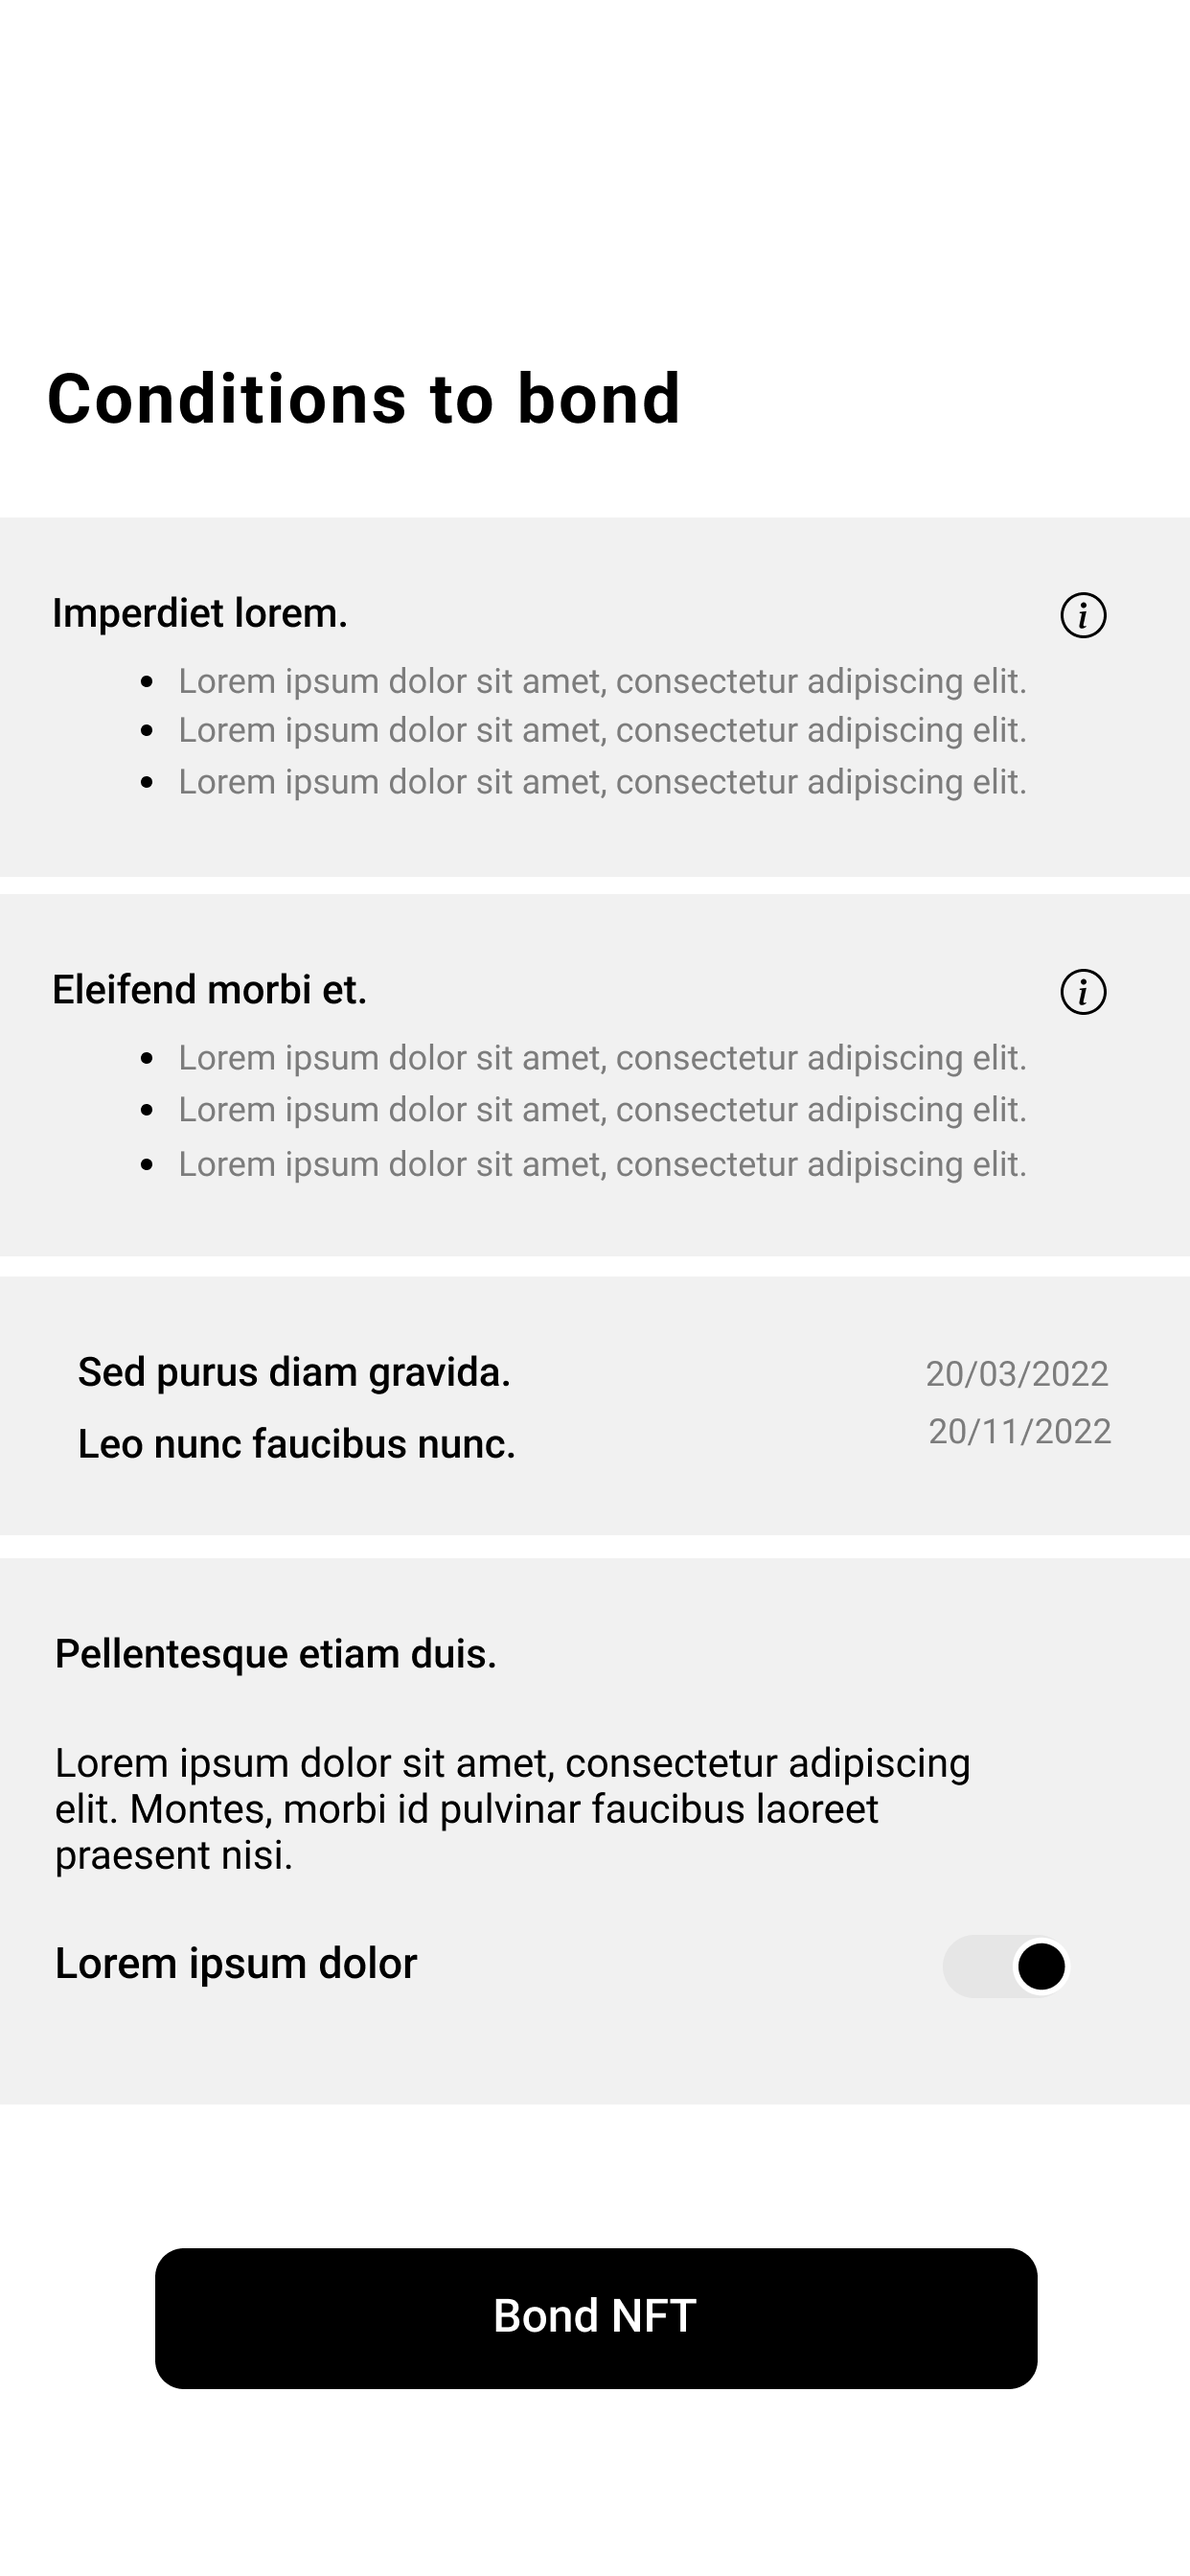
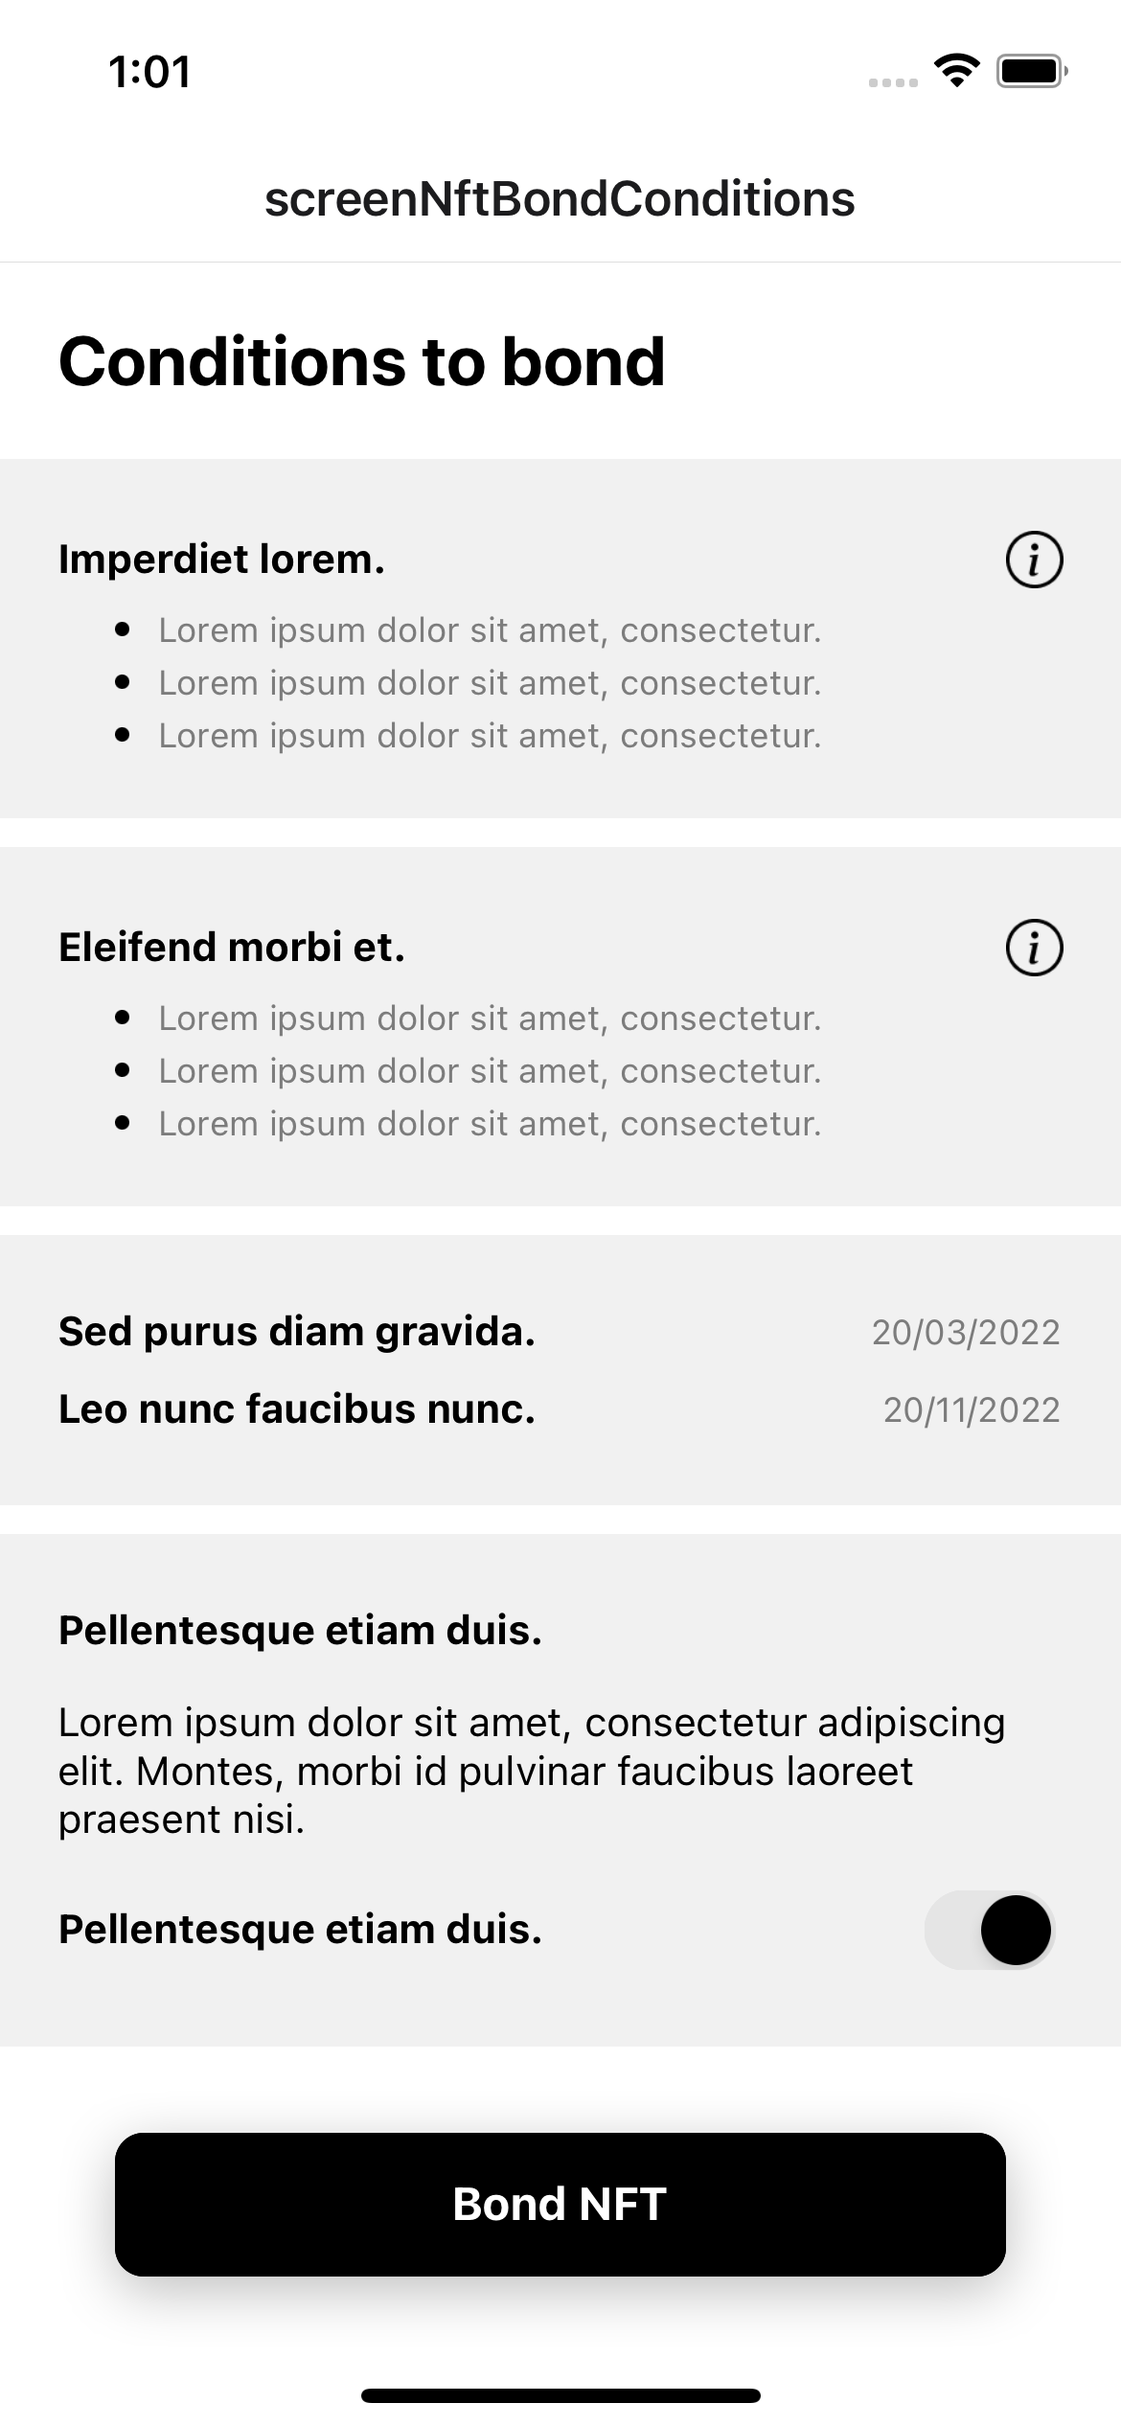
nft bond conditions screen added

diff --git a/screens/screen-nft-bond-conditions/index.js b/screens/screen-nft-bond-conditions/index.js
@@ -1,14 +1,93 @@
-import React from "react";
+import React, { useState } from "react";
 import {
   Text,
   View,
-  StyleSheet
+  StyleSheet,
+  Image,
+  Switch,
+  ScrollView,
+  Pressable
 } from "react-native";
 
 const NFTBondConditions = () => {
+  const [isEnabled, setIsEnabled] = useState(false);
   return (
     <View style={styles.container}>
-      <Text style={styles.heading}>NFT Bond Conditions</Text>
+      <ScrollView>
+        <Text style={styles.heading}>Conditions to bond</Text>
+        <View style={styles.itemContainer}>
+          <View style={styles.flexRow}>
+            <Text style={styles.itemHeading}>Imperdiet lorem.</Text>
+            <Image
+              source={require("./assets/infoIcon.png")}
+              style={styles.infoIcon}
+            />
+          </View>
+          <BulletText
+            text="Lorem ipsum dolor sit amet, consectetur. "
+            textStyle={styles.bulletText}
+          />
+          <BulletText
+            text="Lorem ipsum dolor sit amet, consectetur. "
+            textStyle={styles.bulletText}
+          />
+          <BulletText
+            text="Lorem ipsum dolor sit amet, consectetur. "
+            textStyle={styles.bulletText}
+          />
+        </View>
+        <View style={styles.itemContainer}>
+          <View style={styles.flexRow}>
+            <Text style={styles.itemHeading}>Eleifend morbi et.</Text>
+            <Image
+              source={require("./assets/infoIcon.png")}
+              style={styles.infoIcon}
+            />
+          </View>
+          <BulletText
+            text="Lorem ipsum dolor sit amet, consectetur. "
+            textStyle={styles.bulletText}
+          />
+          <BulletText
+            text="Lorem ipsum dolor sit amet, consectetur. "
+            textStyle={styles.bulletText}
+          />
+          <BulletText
+            text="Lorem ipsum dolor sit amet, consectetur. "
+            textStyle={styles.bulletText}
+          />
+        </View>
+        <View style={styles.itemContainer}>
+          <View style={styles.flexRow}>
+            <Text style={styles.itemHeading}>Sed purus diam gravida.</Text>
+            <Text style={styles.subText}>20/03/2022</Text>
+          </View>
+          <View style={styles.flexRow}>
+            <Text style={styles.itemHeading}>Leo nunc faucibus nunc.</Text>
+            <Text style={styles.subText}>20/11/2022</Text>
+          </View>
+        </View>
+        <View style={styles.itemContainer}>
+          <View style={styles.flexRow}>
+            <Text style={styles.itemHeading}>Pellentesque etiam duis.</Text>
+          </View>
+          <Text style={styles.description}>
+            Lorem ipsum dolor sit amet, consectetur adipiscing elit. Montes,
+            morbi id pulvinar faucibus laoreet praesent nisi.
+          </Text>
+          <View style={styles.flexRow}>
+            <Text style={styles.itemHeading}>Pellentesque etiam duis.</Text>
+            <Switch
+              value={isEnabled}
+              onValueChange={() => setIsEnabled(!isEnabled)}
+              trackColor={{ false: "#767577", true: "#e5e5e5" }}
+              thumbColor={isEnabled ? "#000" : "#000"}
+              style={styles.switch}
+            />
+          </View>
+        </View>
+        <Button buttonText="Bond NFT" style={styles.button} />
+      </ScrollView>
     </View>
   );
 };
@@ -18,8 +97,146 @@ const styles = StyleSheet.create({
     backgroundColor: "#fff"
   },
   heading: {
-    fontSize: 20
+    fontSize: 24,
+    fontWeight: "bold",
+    margin: 20
+  },
+  itemContainer: {
+    padding: 20,
+    backgroundColor: "#F1F1F1",
+    marginBottom: 10
+  },
+  flexRow: {
+    flexDirection: "row",
+    justifyContent: "space-between",
+    alignItems: "center",
+    marginVertical: 5
+  },
+  infoIcon: {
+    width: 20,
+    height: 20
+  },
+  itemHeading: {
+    fontSize: 14,
+    fontWeight: "bold"
+  },
+  subText: {
+    fontSize: 12,
+    color: "#7c7c7c"
+  },
+  bulletText: {
+    fontSize: 12,
+    color: "#7C7C7C"
+  },
+  switch: {
+    transform: [{ scaleX: 0.9 }, { scaleY: 0.9 }]
+  },
+  description: {
+    fontSize: 14,
+    marginVertical: 10
+  },
+  button: {
+    marginVertical: 20,
+    marginHorizontal: 40
   }
 });
 
 export default NFTBondConditions;
+
+const BulletText = props => {
+  let bulletStyle = null;
+  switch (props.type) {
+    default:
+      bulletStyle = {
+        width: 5,
+        height: 5,
+        borderRadius: 5,
+        backgroundColor: "#000",
+        marginRight: 10
+      };
+      break;
+  }
+  return (
+    <View style={bulletTextStyles.bulletContainer}>
+      <View style={bulletStyle} />
+      <Text style={[bulletTextStyles.bulletText, props.textStyle]}>
+        {props.text}
+      </Text>
+    </View>
+  );
+};
+const bulletTextStyles = StyleSheet.create({
+  bulletContainer: {
+    flexDirection: "row",
+    alignItems: "center",
+    marginLeft: 20,
+    marginVertical: 2
+  },
+  bulletText: {
+    fontSize: 12
+  }
+});
+
+const Button = params => {
+  const backgroundColor = params.backgroundColor || "#000";
+  const textColor = params.textColor || "#fff";
+  const btnStyle = {
+    backgroundColor: backgroundColor,
+    borderColor: params.borderColor || backgroundColor,
+    borderWidth: 1
+  };
+  const btnText = {
+    color: textColor
+  };
+  return (
+    <View style={[buttonStyles.btnContainer, params.style]}>
+      <View style={!params.hideShadow ? buttonStyles.shadowContainer : null}>
+        <Pressable
+          style={[buttonStyles.btn, btnStyle]}
+          onPress={params.onPress}>
+          <Text style={[buttonStyles.btnText, btnText]}>
+            {params.buttonText}
+          </Text>
+          <View style={styles.childrenContainer}>{params.children}</View>
+        </Pressable>
+      </View>
+    </View>
+  );
+};
+
+const buttonStyles = StyleSheet.create({
+  btnContainer: {
+    justifyContent: "center"
+  },
+  shadowContainer: {
+    shadowColor: "rgba(0, 0, 0, 0.5)",
+    shadowOffset: {
+      width: 0,
+      height: 5
+    },
+    shadowOpacity: 0.5,
+    shadowRadius: 10,
+    elevation: 10,
+    backgroundColor: "#fff",
+    borderRadius: 10
+  },
+  btn: {
+    height: 50,
+    padding: 10,
+    paddingHorizontal: 25,
+    borderRadius: 10,
+    justifyContent: "center",
+    alignItems: "center",
+
+    flexDirection: "row"
+  },
+  btnText: {
+    color: "#fff",
+    fontSize: 16,
+    fontWeight: "bold"
+  },
+  childrenContainer: {
+    justifyContent: "center",
+    alignItems: "center"
+  }
+});

diff --git a/modules/index.js b/modules/index.js
@@ -2,7 +2,7 @@ import mods from "./*/index.js";
 import { getModules } from "./modules.js";
 
 export const modules = getModules(mods);
-export const initialRoute = "screenMeetingsList";
+export const initialRoute = "screenNftBondConditions";
 // export const initialRoute = modules[0].value.title;
 export const slices = modules
   .filter(mod => mod.value.slice)
